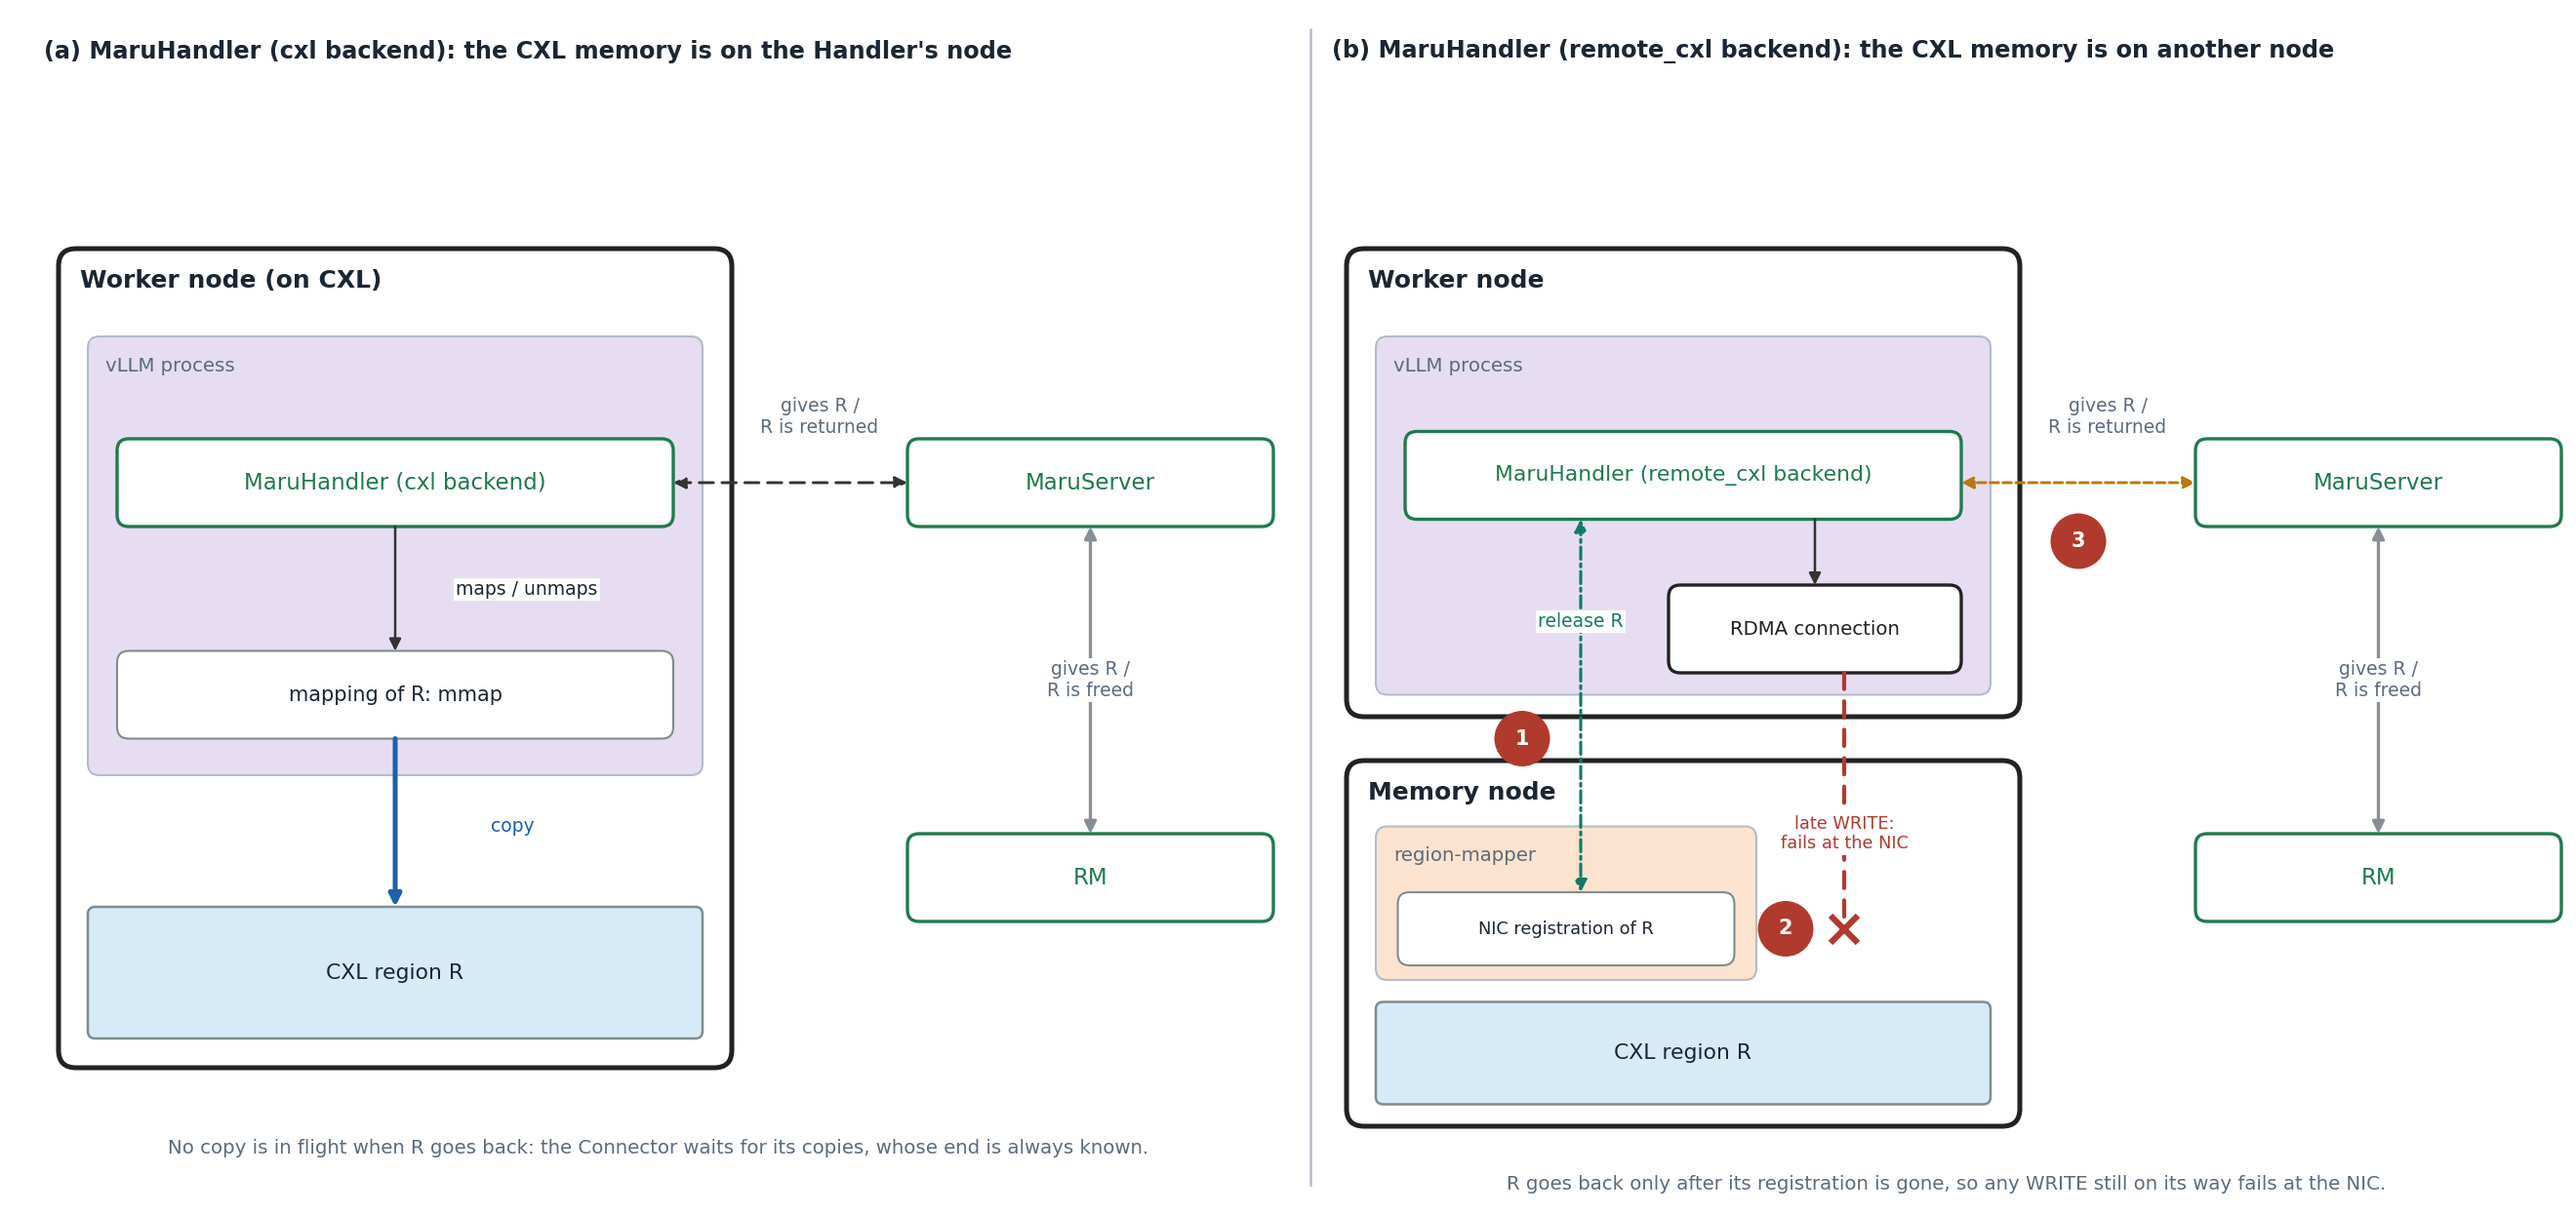
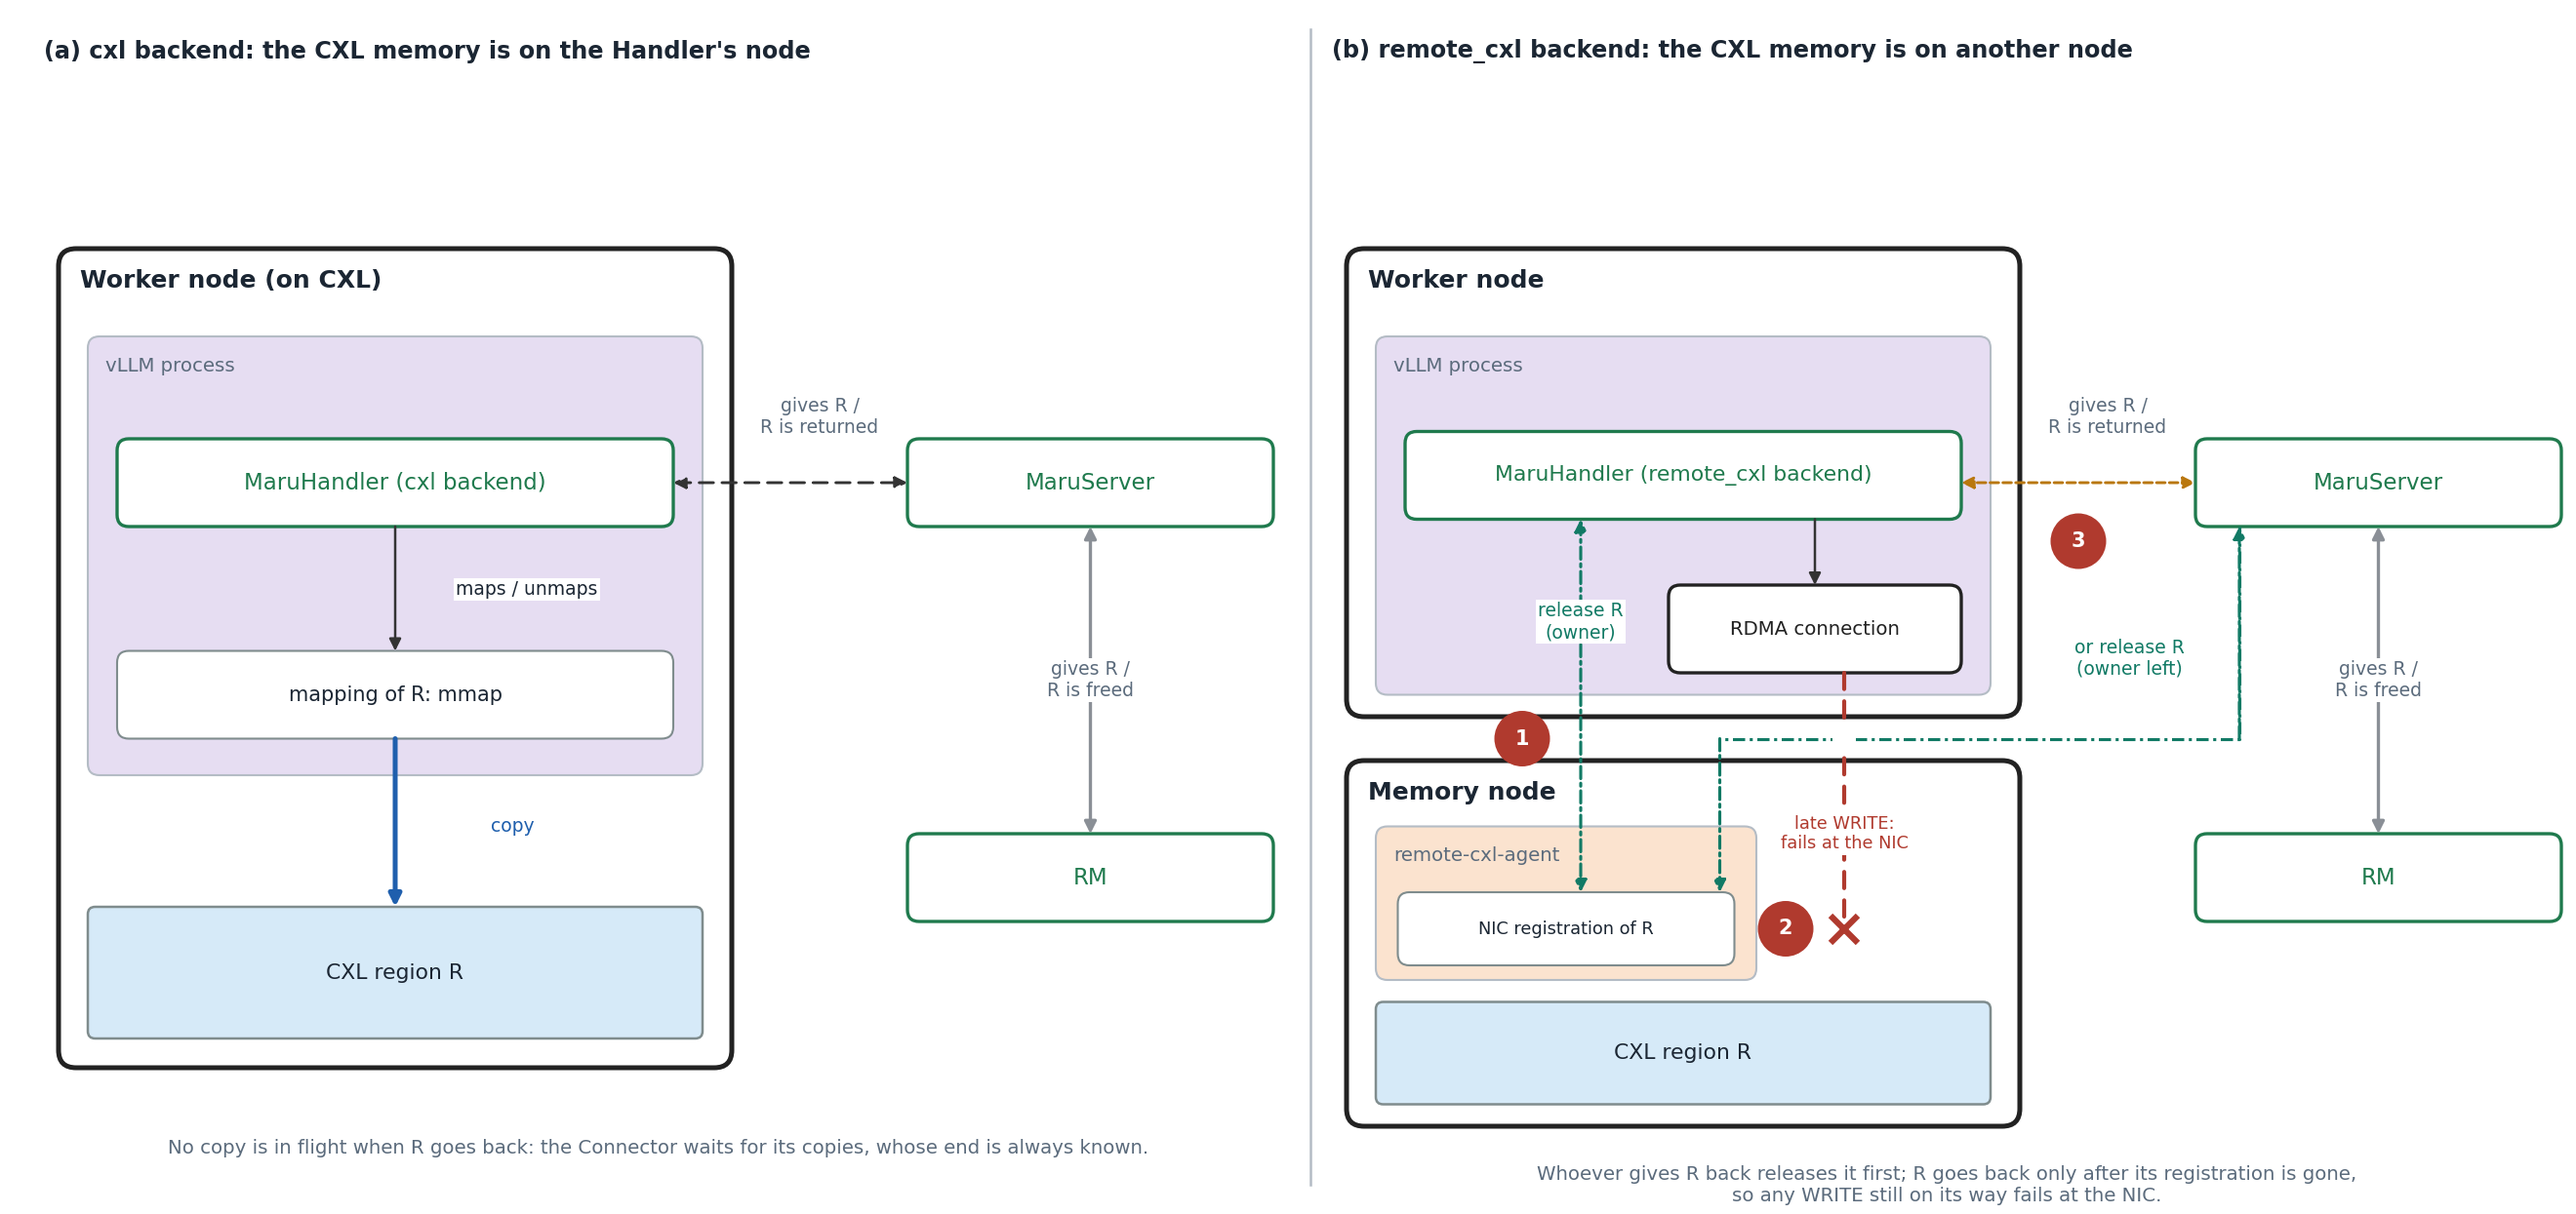
docs(remote_cxl): redraw the figures with the remote CXL agent
The figures name the memory-node service the remote CXL agent and use the
backend names in their titles, without the design-review tags. The return
rule shows both who releases a region before it goes back: its owner, or
MaruServer once the owner has left. The staging figure says that loads use
the region that holds their keys and that the slots split by count; the
read-handle figure marks a reader's release as a refused attempt; the
deployment figure marks the reader's map as one with a read handle.

diff --git a/docs/source/design_doc/maru_handler.md b/docs/source/design_doc/maru_handler.md
@@ -290,7 +290,7 @@ the process:
 **Giving regions back.** A region goes back to the Resource Manager only after
 its remote CXL agent deregistered it from the NIC (`release`):
 
-![The resource flow is the same for both backends; what keeps a returned region safe from late writes differs. A cxl Handler's copies are done when it returns a region. A remote_cxl Handler's RDMA WRITE may still be in flight, so the remote CXL agent deregisters the region first and a late WRITE fails at the NIC](../image/remote_cxl_return_rule.png)
+![The resource flow is the same for both backends; what keeps a returned region safe from late writes differs. A cxl Handler's copies are done when it returns a region. A remote_cxl Handler's RDMA WRITE may still be in flight, so whoever gives the region back (its owner, or MaruServer once the owner has left) has the remote CXL agent deregister it first, and a late WRITE fails at the NIC](../image/remote_cxl_return_rule.png)
 
 - A region the Handler gives back while it runs (for example a new region
   whose memory node it cannot reach) is released first, then returned with
@@ -311,7 +311,7 @@ its remote CXL agent deregistered it from the NIC (`release`):
 **Staging slots.** Loads and stores share the staging buffer. With
 asynchronous transfers, stores leave a share of the slots free for loads:
 
-![Staging slots: half of the slots are kept free for loads; stores take the rest](../image/remote_cxl_staging_slots.png)
+![Staging slots with asynchronous transfers: stores leave half of the slots, by count, free for loads. A load batch fills the free load slots by RDMA READ from the region that holds its keys and goes back after its GPU copy; a store copies from the GPU and WRITEs to the worker's own region](../image/remote_cxl_staging_slots.png)
 
 > **See also:** [Architecture Overview](architecture_overview.md),
 > [Memory Model](memory_model.md),

diff --git a/examples/vllm/remote_cxl/README.md b/examples/vllm/remote_cxl/README.md
@@ -130,7 +130,7 @@ it (step 1); the app launcher starts maru-server (step 2) and then vLLM on each
 worker node (step 3); the app's users send requests (step 4). A prompt stored
 by one worker is then loaded by any other worker of the app.
 
-![One app on one pool. 1, the operator runs the resource manager on the memory node, and systemd starts the remote CXL agent with it. 2, the app launcher starts maru-server on the metadata node; it gets regions from the resource manager as workers ask for them. 3, the app launcher starts vLLM on each worker node; each MaruHandler opens a storage session with maru-server and maps its region at the remote CXL agent. 4, request 1 with prompt P goes to worker 1, which stores P's KV in its region R1 by RDMA; request 2 with the same prompt goes to worker 2, which maps R1 at the remote CXL agent and loads P's KV from R1 by RDMA](../../../docs/source/image/remote_cxl_user_flow.png)
+![One app on one pool. 1, the operator runs the resource manager on the memory node, and systemd starts the remote CXL agent with it. 2, the app launcher starts maru-server on the metadata node; it gets regions from the resource manager as workers ask for them. 3, the app launcher starts vLLM on each worker node; each MaruHandler opens a storage session with maru-server and maps its region at the remote CXL agent. 4, request 1 with prompt P goes to worker 1, which stores P's KV in its region R1 by RDMA; request 2 with the same prompt goes to worker 2, which maps R1 at the remote CXL agent with a read handle and loads P's KV from R1 by RDMA](../../../docs/source/image/remote_cxl_user_flow.png)
 
 The example below uses one memory node that also runs maru-server, and two
 workers on another node. Replace the addresses, NICs and DAX device.

diff --git a/docs/source/design_doc/maru_server.md b/docs/source/design_doc/maru_server.md
@@ -187,7 +187,7 @@ token derived from the auth token. A remote CXL agent maps a read handle only fo
 a region it has mapped, and only the region's handle releases a region, so a
 reader cannot take a region away from its owner.
 
-![The owner A gets R's handle with the auth token; reader B gets R's read handle with its lease. B maps R with the read handle and reads it; B's release of R is refused at the remote CXL agent, and A's writes keep going](../image/remote_cxl_read_handle.png)
+![The owner A gets R's handle with the auth token; reader B gets R's read handle with its lease. B maps R with the read handle and reads it; if B sent a release of R, the remote CXL agent would refuse it, and A's writes keep going](../image/remote_cxl_read_handle.png)
 
 | Action | Operation |
 |--------|-----------|
